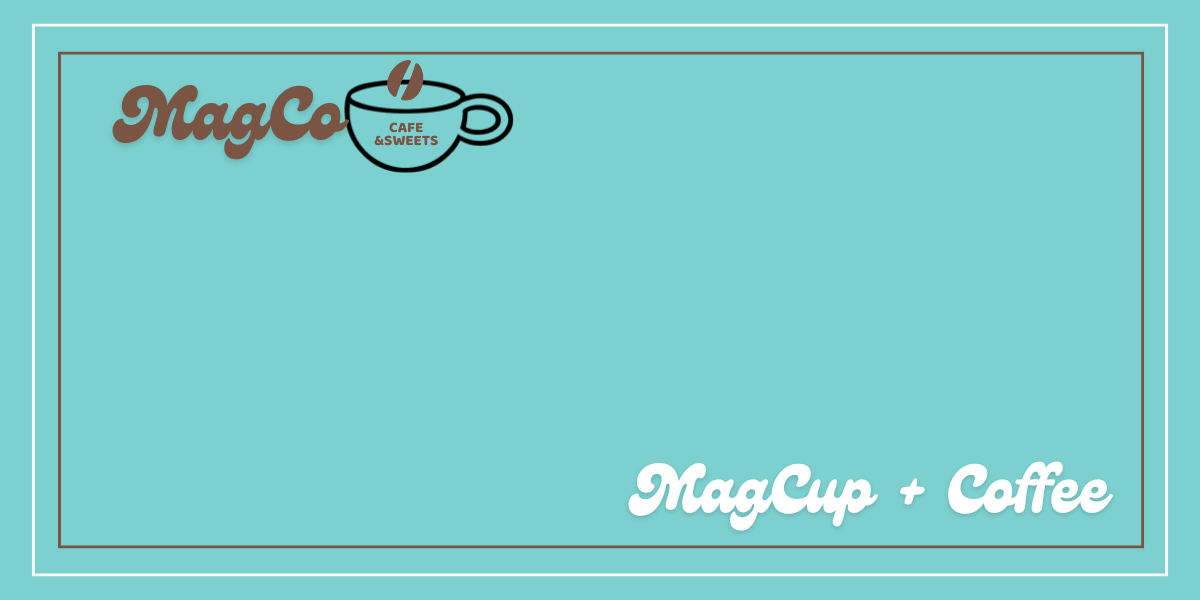
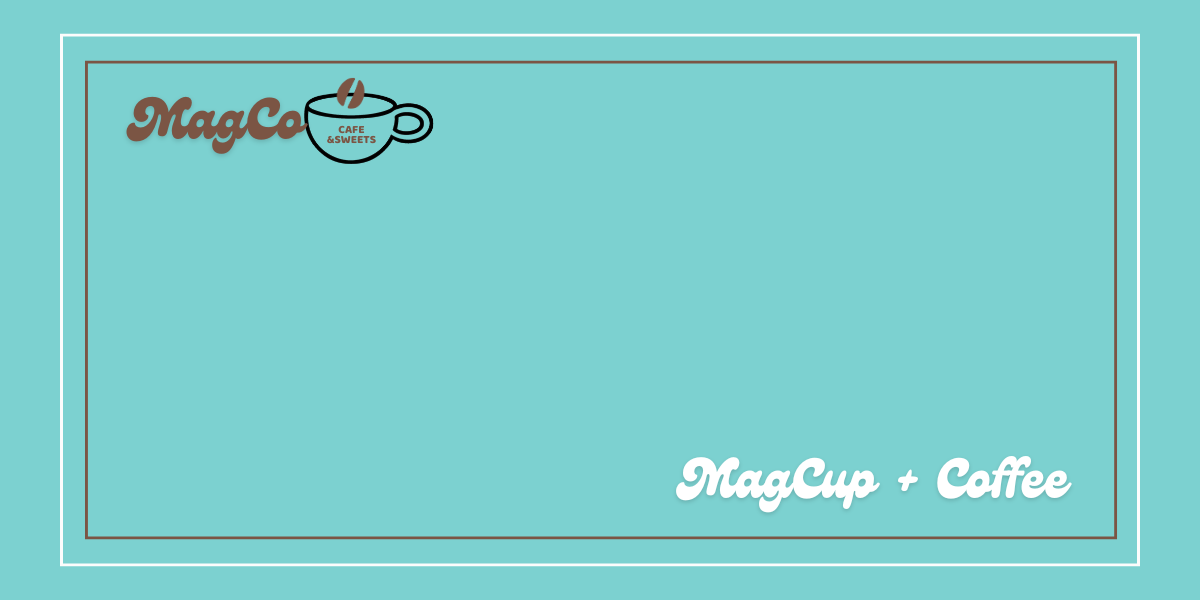
OGP画像とフォントサイズの変更

Changed region(s): [[0.0308, 0.03, 0.9867, 0.96]]

diff --git a/app/controllers/concerns/ogp_creator.rb b/app/controllers/concerns/ogp_creator.rb
@@ -4,7 +4,7 @@ class OgpCreator
   GRAVITY = 'center'
   TEXT_POSITION = '0,0'
   FONT = './app/assets/fonts/NotoSansJP-VariableFont_wght.ttf'
-  FONT_SIZE = 100
+  FONT_SIZE = 60
   INDENTION_COUNT = 16
   ROW_LIMIT = 10
 
